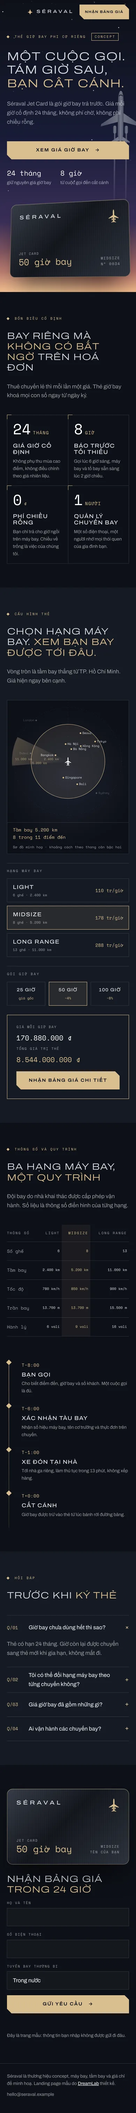
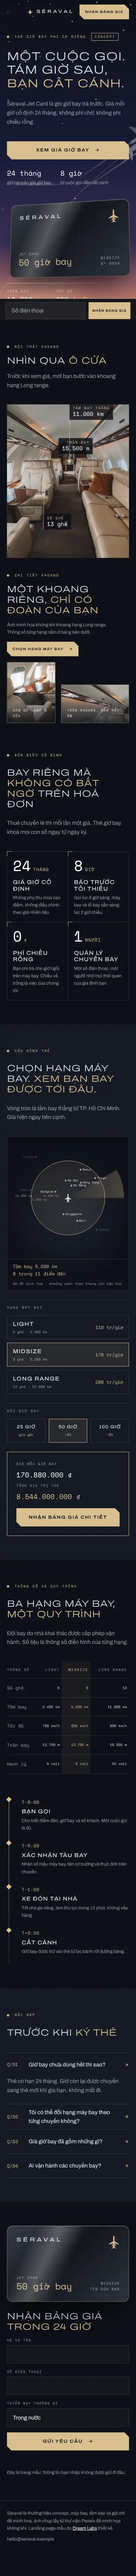
Landing Séraval: cảnh ghim ô cửa sổ khoang mở toàn màn hình, đường bay tự vẽ, số đếm
Claude-Session: https://claude.ai/code/session_012QLWn7rvRysGvRwdv6upwG

diff --git a/demos/lux-lp-seraval.html b/demos/lux-lp-seraval.html
@@ -32,6 +32,7 @@ summary{cursor:pointer;list-style:none}summary::-webkit-details-marker{display:n
 .js [data-r=wipe]{opacity:1;transform:none;clip-path:inset(0 100% 0 0);transition:clip-path var(--d6) var(--ease);transition-delay:calc(var(--i,0)*162ms)}
 .js [data-r].in{opacity:1;transform:none}
 .js [data-r=clip].in,.js [data-r=wipe].in{clip-path:inset(0)}
+.js [data-r=ln]{opacity:1;transform:none}
 .stk{position:fixed;left:0;right:0;bottom:0;z-index:30;display:none;gap:var(--s2);padding:var(--s2) var(--s3) calc(var(--s2) + env(safe-area-inset-bottom));transform:translateY(110%);transition:transform var(--d4) var(--ease)}
 .stk.on{transform:none}
 .stk input{flex:1.618;min-width:0;min-height:48px}.stk button{flex:1;min-height:48px;white-space:nowrap}
@@ -39,7 +40,7 @@ summary{cursor:pointer;list-style:none}summary::-webkit-details-marker{display:n
 @media(max-width:760px){.stk{display:flex}body{padding-bottom:0}}
 .emb .bk{display:none!important}
 .vh{position:absolute;width:1px;height:1px;overflow:hidden;clip-path:inset(50%)}
-@media(prefers-reduced-motion:reduce){html{scroll-behavior:auto}*,*::before,*::after{animation:none!important;transition:none!important}.js [data-r]{opacity:1;transform:none;clip-path:none}}
+@media(prefers-reduced-motion:reduce){html{scroll-behavior:auto}*,*::before,*::after{animation:none!important;transition:none!important}.js [data-r]{opacity:1;transform:none;clip-path:none}.js .tl::before{transform:none}}
 :root{--nt:#0D1017;--sl:#151A23;--pl:#D7DBE0;--ch:#D9BE8F;--mu:rgba(215,219,224,.68);--ln:rgba(215,219,224,.16);--ac:var(--ch);--fd:Archivo,system-ui,sans-serif;--fm:"Space Mono",ui-monospace,monospace}
 body{background:var(--nt);color:var(--pl);font-family:var(--fd);font-weight:400}
 h1,h2,h3{font-weight:300;font-stretch:125%;text-transform:uppercase;letter-spacing:.02em;line-height:1.16}
@@ -81,6 +82,54 @@ h1{font-size:clamp(33px,4.2vw,58px);margin:var(--s4) 0}.h1 span{white-space:nowr
 .card .jt{width:33px;fill:var(--ch)}
 .card .hr{font-family:var(--fm);font-size:26px;color:var(--ch);line-height:1.2}
 .card small{font-family:var(--fm);font-size:10px;letter-spacing:.16em;text-transform:uppercase;color:var(--mu);display:block}
+/* hero: mây, đường bay, đồng hồ */
+.cl{position:absolute;left:0;top:var(--t);width:var(--w);height:calc(var(--w)*.05);border-radius:50%;background:radial-gradient(ellipse at center,rgba(255,232,206,.26),transparent 68%);animation:cl var(--s) linear var(--dl) infinite;pointer-events:none}
+@keyframes cl{from{transform:translate3d(-100%,0,0)}to{transform:translate3d(100vw,0,0)}}
+.rt{position:absolute;inset:0;width:100%;height:100%;pointer-events:none;overflow:visible}
+.rt path{fill:none;stroke:var(--ch);stroke-opacity:.5;stroke-width:1;stroke-dasharray:1;animation:rt 4.2s var(--ease) .6s both}
+@keyframes rt{from{stroke-dashoffset:-1}}
+.off *,.off *::after{animation-play-state:paused!important}
+.hud{display:flex;justify-content:flex-end;gap:var(--s5);max-width:440px;margin:var(--s4) 0 0 auto;padding-top:var(--s3);position:relative;font-family:var(--fm)}
+.hud::before{content:"";position:absolute;inset:0 0 auto;height:1px;background:linear-gradient(270deg,var(--ch),transparent);transform-origin:100% 0;animation:ln var(--d6) var(--ease) .9s both}
+@keyframes ln{from{transform:scaleX(0)}}
+.hud dt{font-size:10px;letter-spacing:.2em;text-transform:uppercase;color:var(--mu)}.hud dd{font-size:20px;color:#fff;font-variant-numeric:tabular-nums}
+/* khoang */
+.ks{position:relative;max-width:1280px;margin:0 auto;padding:var(--s7) max(20px,4.4vw) var(--s4)}
+.ki{display:grid;gap:var(--s3);margin-bottom:var(--s5)}.ki p:not(.cap){color:var(--mu);max-width:36ch}.kh{display:none}
+.kw{position:relative;aspect-ratio:16/9;overflow:hidden;container-type:size;background:#151A23}
+.kf{position:absolute;left:50%;top:50%;width:100%;height:100%;width:max(100cqw,177.78cqh);height:max(100cqh,56.25cqw);transform:translate(-50%,-50%);transform-origin:50.5% 38%}
+.kf img{display:block;width:100%;height:100%;object-fit:cover}
+.kd{position:absolute;inset:0;background:linear-gradient(90deg,rgba(13,16,23,.94),rgba(13,16,23,.6));opacity:.2;pointer-events:none}
+.kr{display:none}
+.kn{position:absolute;left:var(--x);top:var(--y);z-index:1}
+.kn::before{content:"";position:absolute;left:-5px;top:-5px;width:9px;height:9px;background:var(--ch);transform:rotate(45deg);box-shadow:0 0 0 5px rgba(217,190,143,.22)}
+.kn i{position:absolute;left:0;bottom:0;width:1px;height:var(--l);background:var(--ch);transform-origin:0 100%}
+.kn p{position:absolute;left:-1px;bottom:var(--l);padding:var(--s2) var(--s3);background:rgba(13,16,23,.84);border-left:1px solid var(--ch);white-space:nowrap;font-family:var(--fm);line-height:1.3}
+.kn small{display:block;font-size:10px;letter-spacing:.2em;text-transform:uppercase;color:var(--ch)}.kn b{font-weight:400;font-size:20px;color:#fff;font-variant-numeric:tabular-nums}
+.kn.dn i{bottom:auto;top:0;transform-origin:0 0}.kn.dn p{bottom:auto;top:var(--l)}
+.kc{display:grid;grid-template-columns:1.618fr .8fr 1.2fr;gap:var(--s4);align-items:end;margin-top:var(--s5)}
+.kt{display:grid;gap:var(--s3);justify-items:start}.kt p:not(.cap){color:var(--mu);font-size:13px;max-width:40ch}
+.kc figure{position:relative;border:1px solid rgba(217,190,143,.5);overflow:hidden}.kc img{display:block;width:100%;height:100%;object-fit:cover}
+.ka{aspect-ratio:4/5}.kg{aspect-ratio:16/9}
+.kc figcaption{position:absolute;left:0;right:0;bottom:0;padding:var(--s5) var(--s3) var(--s2);background:linear-gradient(transparent,rgba(13,16,23,.86));font-family:var(--fm);font-size:10px;letter-spacing:.14em;text-transform:uppercase}
+.mo .kb{height:290vh;height:290svh}
+.mo .ks{position:sticky;top:0;height:100vh;height:100svh;max-width:none;padding:0;overflow:hidden;background:radial-gradient(ellipse 61.8% 61.8% at 50% 50%,#1C2230,#0D1017 76%)}
+.mo .kw{position:absolute;inset:0;aspect-ratio:auto;will-change:clip-path}.mo .kf{will-change:transform}
+.mo .kd{opacity:0}
+.mo .kr{display:block;position:absolute;left:50%;top:50%;border:1px solid rgba(217,190,143,.7);border-radius:50%;box-shadow:0 0 0 10px rgba(215,219,224,.05),0 0 0 11px var(--ln);pointer-events:none}
+.mo .ki{position:absolute;inset:0;z-index:2;margin:0;padding:0 max(20px,4.4vw);grid-template-columns:1fr 1fr;align-content:center;gap:var(--s3) min(46vw,560px);pointer-events:none}
+.mo .ki .cap,.mo .ki h2{grid-column:1}.mo .ki h2{max-width:9ch}
+.mo .ki p:not(.cap){grid-column:2;grid-row:1/3;align-self:center;justify-self:end;text-align:right;max-width:24ch}
+.mo .kh{display:block;position:absolute;left:0;right:0;bottom:var(--s5);text-align:center;font-family:var(--fm);font-size:10px;letter-spacing:.24em;text-transform:uppercase;color:var(--ch)}
+.mo .kn{opacity:0;transition:opacity var(--d3)}.mo .kn i{transform:scaleY(0);transition:transform var(--d4) var(--ease) .1s}
+.mo .kn p{opacity:0;transform:translateY(10px);transition:opacity var(--d4) var(--ease),transform var(--d4) var(--ease)}
+.mo .kn.dn p{transform:translateY(-10px)}
+.mo .kn.on{opacity:1}.mo .kn.on i{transform:none}.mo .kn.on p{opacity:1;transform:none;transition-delay:.5s}
+.mo .kc{position:absolute;inset:0;z-index:3;display:block;margin:0;visibility:hidden}
+.mo .kc>*{position:absolute;will-change:transform,opacity}
+.mo .kt{left:max(20px,4.4vw);bottom:14vh;max-width:min(40vw,520px)}
+.mo .ka{right:calc(4.4vw + 24vw);top:15vh;width:min(21vw,300px)}
+.mo .kg{right:max(20px,4.4vw);bottom:12vh;width:min(27vw,400px)}
 /* sections */
 .sec{padding:var(--s7) 0;position:relative}
 .sh{display:grid;grid-template-columns:1.618fr 1fr;gap:var(--s3) var(--s6);align-items:end;margin-bottom:var(--s6)}
@@ -128,6 +177,7 @@ h2{font-size:clamp(26px,3.6vw,46px)}
 .tb .on{color:var(--ch);background:rgba(217,190,143,.07)}
 .tl{display:grid;grid-template-columns:repeat(4,1fr);margin-top:var(--s7);position:relative}
 .tl::before{content:"";position:absolute;left:0;right:0;top:5px;height:1px;background:linear-gradient(90deg,var(--ch),rgba(217,190,143,.2))}
+.js .tl::before{transform:scaleX(0);transform-origin:0 0;transition:transform var(--d6) var(--ease) .2s}.js .tl.in::before{transform:none}
 .tl li{padding:var(--s4) var(--s4) 0 0;position:relative}
 .tl li::before{content:"";position:absolute;left:0;top:0;width:11px;height:11px;background:var(--ch);transform:rotate(45deg)}
 .tl .m{color:var(--ch)}.tl h3{font-size:16px;font-weight:500;font-stretch:112%;letter-spacing:.06em;margin:var(--s1) 0}.tl p{color:var(--mu);font-size:13px;line-height:1.618}
@@ -163,6 +213,14 @@ footer .w{display:flex;flex-wrap:wrap;justify-content:space-between;gap:var(--s2
 .rd{aspect-ratio:auto;max-height:none;display:flex;flex-direction:column}.rd svg{aspect-ratio:1;height:auto;order:-1}.rd output,.rd small{position:static;padding:var(--s2) var(--s3);text-align:left}.rd output{border-top:1px solid var(--ln)}.rd small{padding-top:0}
 .hc .btn{width:100%}.kp{gap:var(--s4);margin-top:var(--s4)}.kp b{font-size:20px}
 .card{max-width:none;margin:var(--s3) 0 0}
+.hud{justify-content:flex-start;max-width:none;margin-top:var(--s3)}.hud::before{transform-origin:0 0;background:linear-gradient(90deg,var(--ch),transparent)}
+.ks{padding:var(--s6) 20px var(--s3)}.kw{aspect-ratio:4/5}.kc{grid-template-columns:1fr 1.4fr;gap:var(--s3)}.kt{grid-column:1/-1}
+.k1{--x:59.2%!important;--y:47%!important;--l:64px!important}.k2{--x:50.5%!important;--y:37%!important;--l:118px!important}.k3{--x:41%!important;--y:52%!important;--l:84px!important}.k1 p{left:auto;right:-1px;border-left:0;border-right:1px solid var(--ch);text-align:right}
+.kn p{padding:var(--s1) var(--s2)}.kn b{font-size:16px}
+.mo .ki{grid-template-columns:1fr;align-content:start;padding-top:94px;gap:var(--s2)}.mo .ki h2{max-width:none}.mo .ki p:not(.cap){grid-column:1;grid-row:auto;justify-self:start;text-align:left;max-width:30ch;font-size:13px}
+.mo .kh{bottom:104px}
+.mo .kt{top:88px;bottom:auto;max-width:none;right:20px}.mo .ka{left:20px;right:auto;top:auto;bottom:104px;width:38vw}.mo .kg{bottom:126px;width:46vw}
+.js .tl::before{transform:scaleY(0)}
 .sec{padding:var(--s6) 0}.sh{margin-bottom:var(--s5)}
 .fx{grid-template-columns:1fr 1fr}.fx div{padding:var(--s3)}.fx div:nth-child(3){border-left:0}.fx div:nth-child(n+3){border-top:1px solid var(--ln)}
 .rd{position:relative;top:0}.rd text{font-size:13px}
@@ -179,6 +237,8 @@ footer{padding-bottom:94px}
 <main id="top">
 <section class="hero">
  <svg class="sky" id="sky" aria-hidden="true"></svg>
+ <i class="cl" style="--t:57%;--w:54vw;--s:64s;--dl:-9s"></i><i class="cl" style="--t:71%;--w:78vw;--s:88s;--dl:-52s"></i><i class="cl" style="--t:83%;--w:42vw;--s:47s;--dl:-27s"></i>
+ <svg class="rt" aria-hidden="true"><path id="rt" pathLength="1"/></svg>
  <div class="fly" aria-hidden="true" data-p="-.12"><svg viewBox="0 0 200 520"><defs><linearGradient id="jg" x1="0" y1="0" x2="1" y2="0"><stop offset="0" stop-color="#8E96A2"/><stop offset=".5" stop-color="#F4F6F8"/><stop offset="1" stop-color="#9AA2AE"/></linearGradient><linearGradient id="tr" x1="0" y1="0" x2="0" y2="1"><stop offset="0" stop-color="#fff" stop-opacity=".7"/><stop offset="1" stop-color="#fff" stop-opacity="0"/></linearGradient>
   <g id="jet"><path d="M88 104L16 152l-2 10 74-20zM112 104l72 48 2 10-74-20zM92 204l-32 22v6l36-10zM108 204l32 22v6l-36-10z"/><rect x="68" y="158" width="14" height="34" rx="6"/><rect x="118" y="158" width="14" height="34" rx="6"/><path d="M100 8c8 0 12 22 12 52v130c0 15-6 32-12 42-6-10-12-27-12-42V60c0-30 4-52 12-52z"/></g></defs>
   <rect x="72" y="190" width="6" height="330" fill="url(#tr)"/><rect x="122" y="190" width="6" height="330" fill="url(#tr)"/>
@@ -194,9 +254,25 @@ footer{padding-bottom:94px}
   <div class="cw"><div class="card" id="c0">
    <div class="r"><span class="nm">SÉRAVAL</span><svg class="jt" viewBox="0 0 200 240" aria-hidden="true"><use href="#jet"/></svg></div>
    <div class="r" style="align-items:flex-end"><div><small>Jet Card</small><span class="hr" data-ch>50 giờ bay</span></div><div style="text-align:right"><small data-cc>Midsize</small><small>N° 0034</small></div></div>
-  </div></div>
+  </div><dl class="hud"><div><dt>Trần bay</dt><dd><span id="ha">13.700</span> m</dd></div><div><dt>Tốc độ</dt><dd><span id="hs">850</span> km/h</dd></div></dl></div>
  </div>
 </section>
+
+<section class="kb" id="khoang" aria-label="Nội thất khoang"><div class="ks">
+ <div class="ki"><p class="cap">Nội thất khoang</p><h2>Nhìn qua <em>ô cửa</em></h2><p>Trước khi xem giá, mời bạn bước vào khoang hạng Long range.</p><span class="kh" aria-hidden="true">Cuộn để mở ô cửa ↓</span></div>
+ <div class="kw"><div class="kf"><img src="../img/photo/phi-co-20562279-xl.webp" width="2400" height="1350" loading="lazy" decoding="async" alt="Khoang phi cơ riêng với ghế da màu kem, bàn gỗ bóng và dải đèn ấm chạy dọc trần">
+  <div class="kd"></div>
+  <div class="kn k1" style="--x:16.5%;--y:47%;--l:110px"><i></i><p><small>Trần bay</small><b><span data-k="15500">15.500</span> m</b></p></div>
+  <div class="kn k2" style="--x:50.5%;--y:37%;--l:78px"><i></i><p><small>Tầm bay thẳng</small><b><span data-k="11000">11.000</span> km</b></p></div>
+  <div class="kn k3 dn" style="--x:71%;--y:56%;--l:86px"><i></i><p><small>Số ghế</small><b><span data-k="13">13</span> ghế</b></p></div>
+ </div></div>
+ <i class="kr" aria-hidden="true"></i>
+ <div class="kc">
+  <div class="kt"><p class="cap">Chi tiết khoang</p><h2>Một khoang riêng, <em>chỉ có đoàn của bạn</em></h2><p>Ảnh minh họa không khí khoang hạng Long range. Thông số từng hạng nằm ở bảng bên dưới.</p><a class="btn sm" href="#chon">Chọn hạng máy bay <span aria-hidden="true">→</span></a></div>
+  <figure class="ka"><img src="../img/photo/lux-lp-seraval-ban-go.webp" width="760" height="950" loading="lazy" decoding="async" alt="Cận cảnh bàn gỗ bóng cạnh ô cửa sổ và ghế da màu kem"><figcaption>Bàn gỗ cạnh ô cửa</figcaption></figure>
+  <figure class="kg"><img src="../img/photo/lux-lp-seraval-tran-den.webp" width="900" height="506" loading="lazy" decoding="async" alt="Cận cảnh trần khoang với nẹp gỗ bóng và dải đèn hắt màu ấm"><figcaption>Trần khoang, đèn hắt ấm</figcaption></figure>
+ </div>
+</div></section>
 
 <section class="sec" id="cam-ket"><div class="w">
  <div class="sh"><p class="cap">Bốn điều cố định</p><h2 data-r>Bay riêng mà <em>không có bất ngờ</em> trên hoá đơn</h2><p data-r style="--i:1">Thuê chuyến lẻ thì mỗi lần một giá. Thẻ giờ bay khoá mọi con số ngay từ ngày ký.</p></div>
@@ -234,13 +310,13 @@ footer{padding-bottom:94px}
   <thead><tr><th>Thông số</th><th>Light</th><th>Midsize</th><th>Long range</th></tr></thead>
   <tbody>
    <tr><td>Số ghế</td><td>6</td><td>8</td><td>13</td></tr>
-   <tr><td>Tầm bay</td><td>2.400 km</td><td>5.200 km</td><td>11.000 km</td></tr>
-   <tr><td>Tốc độ</td><td>780 km/h</td><td>850 km/h</td><td>900 km/h</td></tr>
-   <tr><td>Trần bay</td><td>13.700 m</td><td>13.700 m</td><td>15.500 m</td></tr>
+   <tr><td>Tầm bay</td><td><span data-n="2400">2.400</span> km</td><td><span data-n="5200">5.200</span> km</td><td><span data-n="11000">11.000</span> km</td></tr>
+   <tr><td>Tốc độ</td><td><span data-n="780">780</span> km/h</td><td><span data-n="850">850</span> km/h</td><td><span data-n="900">900</span> km/h</td></tr>
+   <tr><td>Trần bay</td><td><span data-n="13700">13.700</span> m</td><td><span data-n="13700">13.700</span> m</td><td><span data-n="15500">15.500</span> m</td></tr>
    <tr><td>Hành lý</td><td>6 vali</td><td>9 vali</td><td>16 vali</td></tr>
   </tbody>
  </table>
- <ol class="tl">
+ <ol class="tl" data-r="ln">
   <li data-r><span class="m">T−8:00</span><h3>Bạn gọi</h3><p>Cho biết điểm đến, giờ bay và số khách. Một cuộc gọi là đủ.</p></li>
   <li data-r style="--i:1"><span class="m">T−6:00</span><h3>Xác nhận tàu bay</h3><p>Nhận số hiệu máy bay, tên cơ trưởng và thực đơn trên chuyến.</p></li>
   <li data-r style="--i:2"><span class="m">T−1:00</span><h3>Xe đón tại nhà</h3><p>Tới nhà ga riêng, làm thủ tục trong 13 phút, không xếp hàng.</p></li>
@@ -273,7 +349,7 @@ footer{padding-bottom:94px}
  </form>
 </div></section>
 </main>
-<footer><div class="w"><span>Séraval là thương hiệu concept, máy bay, tầm bay và giá chỉ để minh hoạ. Landing page mẫu do <a href="../index.html" target="_top">Dream Labs</a> thiết kế.</span><span>hello@seraval.example</span></div></footer>
+<footer><div class="w"><span>Séraval là thương hiệu concept, máy bay, tầm bay và giá chỉ để minh hoạ, ảnh chụp lấy từ thư viện Pexels để minh họa không khí. Landing page mẫu do <a href="../index.html" target="_top">Dream Labs</a> thiết kế.</span><span>hello@seraval.example</span></div></footer>
 <form class="stk" novalidate data-ok="Đã ghi số của bạn. Trang mẫu nên chưa gửi đi đâu."><p class="msg" role="status"></p><label class="vh" for="s1">Số điện thoại</label><input id="s1" type="tel" required placeholder="Số điện thoại"><button>Nhận bảng giá</button></form>
 <script>
 (()=>{
@@ -289,13 +365,36 @@ const onS=()=>{tk=0;const y=scrollY,vh=innerHeight;hd&&hd.classList.toggle('s',y
 addEventListener('scroll',()=>{tk||(tk=requestAnimationFrame(onS))},{passive:true});onS();
 $$('form').forEach(f=>f.addEventListener('submit',e=>{e.preventDefault();const m=$('.msg',f),ok=$$('[required]',f).every(i=>i.value.trim());m.textContent=ok?(f.dataset.ok||'Cảm ơn bạn. Đây là trang mẫu của Dream Labs nên chưa có thông tin nào được gửi đi.'):'Bạn điền giúp các ô còn trống nhé.';m.classList.toggle('ok',ok)}));
 try{parent!==window&&parent.postMessage({wkDemo:'lux-lp-seraval',smDemo:'lux-lp-seraval'},'*')}catch(e){}
-/* sao: rải theo góc vàng */
+/* sao */
 const sky=$('#sky'),sw=1440,shh=900;sky.setAttribute('viewBox',`0 0 ${sw} ${shh}`);sky.setAttribute('preserveAspectRatio','xMidYMin slice');
 sky.innerHTML=Array.from({length:89},(_,i)=>{const a=i*2.39996,r=Math.sqrt(i+1)*76;return`<circle cx="${(720+Math.cos(a)*r).toFixed(0)}" cy="${(120+Math.sin(a)*r*.5+i*3).toFixed(0)}" r="${(.6+i%3*.4).toFixed(1)}" style="animation-delay:-${(i%7)*.62}s"/>`}).join('');
 /* thẻ nghiêng theo chuột */
 const hero=$('.hero'),c0=$('#c0');if(!RM&&matchMedia('(pointer:fine)').matches)hero.addEventListener('pointermove',e=>{const r=hero.getBoundingClientRect();c0.style.setProperty('--rx',((e.clientX-r.left)/r.width-.5).toFixed(3));c0.style.setProperty('--ry',((e.clientY-r.top)/r.height-.5).toFixed(3))});
+/* đường bay cong: từ chân trời lên đuôi máy bay */
+const fl=$('.fly'),rtp=$('#rt'),route=()=>{const tx=fl.offsetLeft+fl.offsetWidth/2,ty=fl.offsetTop+fl.offsetHeight/2-fl.offsetWidth*.14,h=hero.clientHeight,w=fl.offsetWidth;rtp.setAttribute('d',RM?`M-20 ${(h*.95).toFixed(0)}Q${(tx-w*1.4).toFixed(0)} ${(ty+w*1.15).toFixed(0)} ${(tx+w*.12).toFixed(0)} ${(ty+w*.06).toFixed(0)}`:`M-20 ${(h*.95).toFixed(0)}Q${tx.toFixed(0)} ${(h*.93).toFixed(0)} ${tx.toFixed(0)} ${ty.toFixed(0)}`)};route();
+/* vòng lặp chỉ chạy khi trong khung nhìn */
+if('IntersectionObserver' in window){const lo=new IntersectionObserver(es=>es.forEach(e=>e.target.classList.toggle('off',!e.isIntersecting)));$$('.hero,.rd').forEach(e=>lo.observe(e))}
+/* khoang: ô cửa mở theo cuộn */
+const kb=$('.kb');let kRe=()=>{};if(kb&&!RM&&window.CSS&&CSS.supports('clip-path','ellipse(1px 1px at 50% 50%)')){H.classList.add('mo');
+ const kw=$('.kw'),kf=$('.kf'),kr=$('.kr'),ki=$('.ki'),kd=$('.kd'),kc=$('.kc'),ks=[$('.kt'),$('.ka'),$('.kg')],kn=$$('.kn'),cl=(v,a,b)=>Math.min(1,Math.max(0,(v-a)/(b-a))),io3=t=>t<.5?4*t*t*t:1-Math.pow(2-2*t,3)/2;
+ let cur=-1,tg=0,vis=0,raf=0,R0=0;
+ const draw=p=>{const vw=kw.clientWidth,vh=kw.clientHeight,r0=Math.max(92,Math.min(vw*.12,170)),r1=r0*1.36,e=io3(cl(p,0,.4)),rx=r0+(vw*.76-r0)*e,ry=r1+(vh*.76-r1)*e,a=cl(p,.02,.15),q=1-Math.pow(1-cl(p,.76,.95),4),mb=vw<861;
+  if(R0!==r0){R0=r0;kr.style.width=2*r0+16+'px';kr.style.height=2*r1+16+'px'}
+  kw.style.clipPath=e<1?`ellipse(${rx.toFixed(1)}px ${ry.toFixed(1)}px at 50% 50%)`:'none';
+  kf.style.transform=`translate(-50%,-50%) scale(${(1+.1*p).toFixed(4)})`;
+  kr.style.transform=`translate(-50%,-50%) scale(${(rx/r0).toFixed(3)},${(ry/r1).toFixed(3)})`;kr.style.opacity=(1-cl(e,0,.5)).toFixed(3);
+  ki.style.opacity=(1-a).toFixed(3);ki.style.transform=`translate3d(0,${(-42*a).toFixed(1)}px,0)`;
+  kd.style.opacity=(.34*cl(p,.34,.44)+.66*q).toFixed(3);
+  kn.forEach((n,i)=>{const on=p>.43+i*.08&&p<.75;if(on!==n._o){n._o=on;n.classList.toggle('on',on);if(on){const b=$('[data-k]',n);b._v=0;tween(b,+b.dataset.k,vnd,1110)}}});
+  kc.style.visibility=q>.01?'visible':'hidden';
+  ks.forEach((el,i)=>{el.style.opacity=q.toFixed(3);el.style.transform=i==2&&!mb?`translate3d(${((1-q)*46).toFixed(2)}vw,0,0)`:`translate3d(0,${((1-q)*(i?56:6)).toFixed(2)}vh,0)`})};
+ const tick=()=>{raf=0;const r=kb.getBoundingClientRect();tg=cl(-r.top,0,r.height-innerHeight);cur=cur<0?tg:cur+(tg-cur)*.16;if(Math.abs(tg-cur)<.0005)cur=tg;draw(cur);if(vis&&cur!==tg&&!D.hidden)raf=requestAnimationFrame(tick)};
+ kRe=()=>{raf||(raf=requestAnimationFrame(tick))};
+ new IntersectionObserver(es=>{vis=es[0].isIntersecting;vis&&kRe()},{rootMargin:'20% 0px'}).observe(kb);
+ addEventListener('scroll',()=>vis&&kRe(),{passive:true});tick()}
+addEventListener('resize',()=>{route();kRe()});
 const C=[['Light','6 ghế · 2.400 km',11e7,2400],['Midsize','8 ghế · 5.200 km',178e6,5200],['Long range','13 ghế · 11.000 km',288e6,11000]],HR=[[25,0],[50,.04],[100,.08]],
-CT=[['Đà Nẵng',610,15],['Hà Nội',1150,352],['Bangkok',740,296],['Singapore',1090,196],['Hồng Kông',1500,40],['Bali',2300,158],['Seoul',3600,24],['Tokyo',4300,54],['Dubai',5600,282],['Sydney',6900,138],['London',10200,322]],S={c:1,h:1},K=230/Math.sqrt(11000);
+CT=[['Đà Nẵng',610,15],['Hà Nội',1150,352],['Bangkok',740,296],['Singapore',1090,196],['Hồng Kông',1500,40],['Bali',2300,158],['Seoul',3600,24],['Tokyo',4300,54],['Dubai',5600,282],['Sydney',6900,138],['London',10200,322]],S={c:1,h:1},K=230/Math.sqrt(11000),AL=[13700,13700,15500],SP=[780,850,900];
 $('#oc').innerHTML=C.map((c,i)=>`<button class="op" type="button" data-g="c" data-v="${i}"><b>${c[0]}</b><span>${c[1]}</span><i>${c[2]/1e6} tr/giờ</i></button>`).join('');
 $('#oh').innerHTML=HR.map((h,i)=>`<button class="op" type="button" data-g="h" data-v="${i}"><b>${h[0]} giờ</b><i>${h[1]?'−'+h[1]*100+'%':'giá gốc'}</i></button>`).join('');
 $('#cts').innerHTML=CT.map(c=>{const r=Math.sqrt(c[1])*K,a=(c[2]-90)*Math.PI/180,x=Math.cos(a)*r,y=Math.sin(a)*r,l=x<-20;return`<g class="ct" data-d="${c[1]}"><circle cx="${x.toFixed(1)}" cy="${y.toFixed(1)}" r="3.4"/><text x="${(x+(l?-8:8)).toFixed(1)}" y="${(y+3.5).toFixed(1)}" text-anchor="${l?'end':'start'}">${c[0]}</text></g>`}).join('');
@@ -305,7 +404,7 @@ const up=()=>{const c=C[S.c],h=HR[S.h],rate=c[2]*(1-h[1]);let n=0;
  $$('[data-g]').forEach(o=>o.setAttribute('aria-pressed',S[o.dataset.g]==o.dataset.v));
  $$('.tb tr').forEach(r=>[...r.children].forEach((d,i)=>d.classList.toggle('on',i===S.c+1)));
  $$('[data-ch]').forEach(e=>e.textContent=h[0]+' giờ bay');$$('[data-cc]').forEach(e=>e.textContent=c[0]);
- tween($('#pr'),rate,vnd,686);tween($('#pt'),rate*h[0],vnd,686)};
+ tween($('#ha'),AL[S.c],vnd,1796);tween($('#hs'),SP[S.c],vnd,1796);tween($('#pr'),rate,vnd,686);tween($('#pt'),rate*h[0],vnd,686)};
 $('#chon').addEventListener('click',e=>{const o=e.target.closest('[data-g]');if(o){S[o.dataset.g]=+o.dataset.v;up()}});
 $('#f1').addEventListener('input',e=>$('#cn').textContent=e.target.value.trim().slice(0,21)||'Tên của bạn');
 $('#pr')._v=17088e4;$('#pt')._v=8544e6;up();
